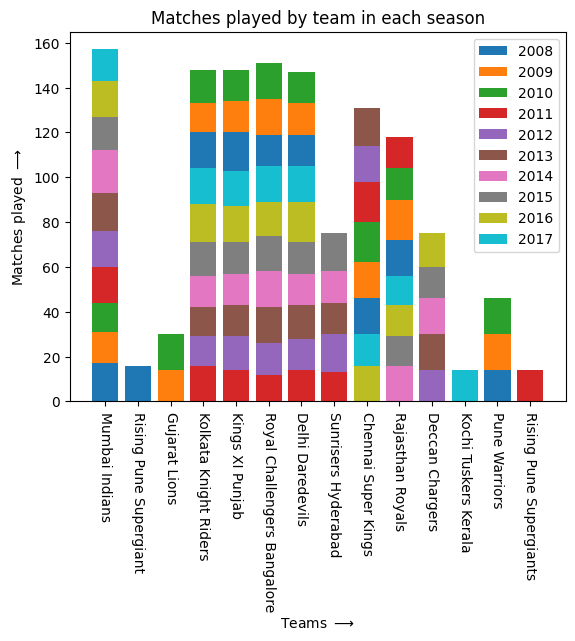
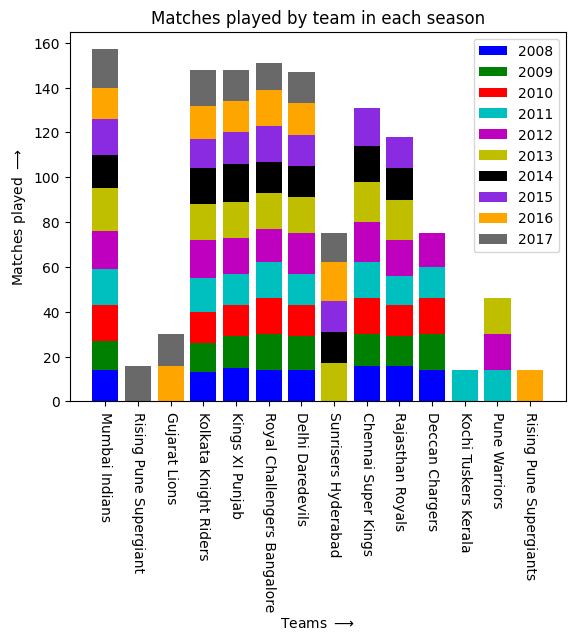
commiting after completing the project

Changed region(s): [[0.1478, 0.0624, 0.7983, 0.624], [0.8278, 0.0624, 0.887, 0.4056], [0.8278, 0.468, 0.9461, 0.624]]

diff --git a/Programs/Questions/question_6.py b/Programs/Questions/question_6.py
@@ -10,27 +10,21 @@ from data import extracting_matches_data
 matches_data_list=extracting_matches_data()
 
 # Doing calculation to get the spicific data as per reuirements
-matches_data_dict={}
+winner_team_dict={}
 i=1
 while i<len(matches_data_list):
     
-    if matches_data_list[i]["team1"] in matches_data_dict:
-        if matches_data_list[i]["season"] in matches_data_dict[matches_data_list[i]["team1"]]:
-            matches_data_dict[matches_data_list[i]["team1"]][matches_data_list[i]["season"]]+=1
+    if matches_data_list[i]["result"] == "normal":
+        if matches_data_list[i]["winner"] in winner_team_dict:
+            if matches_data_list[i]["season"] in winner_team_dict[matches_data_list[i]["winner"]]:
+                winner_team_dict[matches_data_list[i]["winner"]][matches_data_list[i]["season"]]+=1
+            else:
+                winner_team_dict[matches_data_list[i]["winner"]][matches_data_list[i]["season"]]=1
         else:
-            matches_data_dict[matches_data_list[i]["team1"]][matches_data_list[i]["season"]]=1
-    else:
-        matches_data_dict[matches_data_list[i]["team1"]]={}
-        matches_data_dict[matches_data_list[i]["team1"]][matches_data_list[i]["season"]]=1
+            winner_team_dict[matches_data_list[i]["winner"]]={}
+            winner_team_dict[matches_data_list[i]["winner"]][matches_data_list[i]["season"]]=1
 
-    if matches_data_list[i]["team2"] in matches_data_dict:
-        if matches_data_list[i]["season"] in matches_data_dict[matches_data_list[i]["team2"]]:
-            matches_data_dict[matches_data_list[i]["team2"]][matches_data_list[i]["season"]]+=1
-        else:
-            matches_data_dict[matches_data_list[i]["team2"]][matches_data_list[i]["season"]]=1
-    else:
-        matches_data_dict[matches_data_list[i]["team2"]]={}
-        matches_data_dict[matches_data_list[i]["team2"]][matches_data_list[i]["season"]]=1
+   
     i+=1
 
 
@@ -50,7 +44,6 @@ color_dict = {
 
 
 
-
 # labeling the legends
 color_dict_keys=list(color_dict.keys())
 color_dict_values=list(color_dict.values())
@@ -60,7 +53,7 @@ while i<len(color_dict_values):
     i+=1
 
 # Plotting the bar graph
-for team_name,team_data in matches_data_dict.items():
+for winner_team_name,team_data in winner_team_dict.items():
     bottom=0
     team_data_keys=list(team_data.keys())
     team_data_keys.sort()
@@ -69,17 +62,17 @@ for team_name,team_data in matches_data_dict.items():
     matches_played=list(sorted_team_data_dict.values())
     i=0
     while i < len(season):
-        plt.bar(team_name,matches_played[i],bottom=bottom,label=season[i],color=color_dict[season[i]])
+        plt.bar(winner_team_name,matches_played[i],bottom=bottom,label=season[i],color=color_dict[season[i]])
         bottom+=matches_played[i]
         i+=1
 
 
 plt.legend(color_dict.keys())
-plt.title("Matches played by team in each season")
+plt.title("Games won by team in each season")
 plt.xlabel(r"Teams $\longrightarrow$")
 plt.ylabel(r"Matches played $\longrightarrow$")
 plt.xticks(rotation=270)
-plt.savefig("../figures/question_4_fig.png",bbox_inches='tight')  #Saving the image in different location
+plt.savefig("../figures/question_6_fig.png",bbox_inches='tight')  #Saving the image in different location
 plt.show()
 
 

diff --git a/Programs/Questions/question_8.py b/Programs/Questions/question_8.py
@@ -1,0 +1,64 @@
+import sys
+import matplotlib.pyplot as plt
+
+# Adding the path so that it can find the desired file in the given path also
+sys.path.append("/home/divesh/Desktop/Python/Projects/IPL-project/Programs")
+from data import extracting_matches_data,extracting_deliveries_data
+
+# Calling function from different file to get the data
+matches_data_list=extracting_matches_data()
+deliveries_data_list=extracting_deliveries_data()
+# Doing calculation to get the spicific data as per reuirements
+match_id_list=[]
+j=1 
+while j<len(matches_data_list):
+	if matches_data_list[j]["season"]=='2015':
+		match_id_list.append(matches_data_list[j]["id"])
+	j+=1
+
+
+economy_data_dict={}
+i=1
+while i<len(deliveries_data_list):
+   
+	if deliveries_data_list[i]["match_id"] in match_id_list:
+		if deliveries_data_list[i]["bowler"] in economy_data_dict:
+			economy_data_dict[deliveries_data_list[i]["bowler"]][0]+=int(deliveries_data_list[i]["total_runs"])
+			economy_data_dict[deliveries_data_list[i]["bowler"]][1]+=1
+			economy_data_dict[deliveries_data_list[i]["bowler"]][2]=economy_data_dict[deliveries_data_list[i]["bowler"]][1]//6
+			if economy_data_dict[deliveries_data_list[i]["bowler"]][2]!=0:
+				economy_data_dict[deliveries_data_list[i]["bowler"]][3]=round(economy_data_dict[deliveries_data_list[i]["bowler"]][0]/economy_data_dict[deliveries_data_list[i]["bowler"]][2],1)
+			else:
+				economy_data_dict[deliveries_data_list[i]["bowler"]][3]=0.0
+		
+		else:
+			   economy_data_dict[deliveries_data_list[i]["bowler"]]=[int(deliveries_data_list[i]["total_runs"]),1,0,0]
+				
+		
+	i+=1
+
+
+sorted_economy_data_dict=dict(sorted(economy_data_dict.items(), key=lambda item: item[1][3]))
+bowlers_list=list(sorted_economy_data_dict.keys())[:10]
+economy_list=[]
+i=0
+for bowler,bowling_data in sorted_economy_data_dict.items():
+	economy_list.append(bowling_data[3])
+	i+=1
+	if(i==10):
+		break
+
+colors = ['b', 'g', 'r', 'c', 'm', 'y', 'k', 'tab:blue', 'tab:orange', 'tab:green']
+
+
+
+# Plotting the chart
+plt.figure(figsize=(15, 15))  # Set the figure size to 10x6 inches    
+plt.bar(bowlers_list,economy_list,label=bowlers_list,color=colors)    
+plt.xticks(rotation=270,fontsize=10)           #Rotated the names on x-axis
+plt.legend(bbox_to_anchor =(1, 1.15), ncol = 3)
+plt.xlabel(r'Bowlers $\longrightarrow$')
+plt.ylabel(r"Economy $\longrightarrow$")
+plt.title("Top 10 Bowler in year 2015")
+plt.savefig("../figures/question_8_fig.png",bbox_inches='tight')    #Saving the figure in the given paths
+plt.show()

diff --git a/Programs/Questions/question_7.py b/Programs/Questions/question_7.py
@@ -1,0 +1,44 @@
+import sys
+import matplotlib.pyplot as plt
+
+# Adding the path so that it can find the desired file in the given path also
+sys.path.append("/home/divesh/Desktop/Python/Projects/IPL-project/Programs")
+from data import extracting_matches_data,extracting_deliveries_data
+
+# Calling function from different file to get the data
+matches_data_list=extracting_matches_data()
+deliveries_data_list=extracting_deliveries_data()
+# Doing calculation to get the spicific data as per reuirements
+match_id_list=[]
+j=1 
+while j<len(matches_data_list):
+	if matches_data_list[j]["season"]=='2016':
+		match_id_list.append(matches_data_list[j]["id"])
+	j+=1
+
+extra_runs_data_dict={}
+i=1
+while i<len(deliveries_data_list):
+
+	if deliveries_data_list[i]["match_id"] in match_id_list:
+		if deliveries_data_list[i]["batting_team"] in extra_runs_data_dict:
+			extra_runs_data_dict[deliveries_data_list[i]["batting_team"]]+=int(deliveries_data_list[i]["extra_runs"])
+		else:
+			extra_runs_data_dict[deliveries_data_list[i]["batting_team"]]=int(deliveries_data_list[i]["extra_runs"])
+		
+	i+=1
+
+colors = ['b', 'g', 'r', 'c', 'm', 'y', 'k', 'tab:blue']
+extra_runs_team_list=list(extra_runs_data_dict.keys())
+extra_runs_list=list(extra_runs_data_dict.values())
+
+# Plotting the chart
+plt.figure(figsize=(15, 15))  # Set the figure size to 10x6 inches    
+plt.bar(extra_runs_team_list,extra_runs_list,label=extra_runs_team_list,color=colors)    
+plt.xticks(rotation=270,fontsize=10)           #Rotated the names on x-axis
+plt.legend(bbox_to_anchor =(1, 1.15), ncol = 3)
+plt.xlabel(r'Teams $\longrightarrow$')
+plt.ylabel(r"Runs $\longrightarrow$")
+plt.title("Extra runs given by team in year 2016")
+plt.savefig("../figures/question_7_fig.png",bbox_inches='tight')    #Saving the figure in the given paths
+plt.show()

diff --git a/Programs/Questions/question_5.py b/Programs/Questions/question_5.py
@@ -1,5 +1,4 @@
 import sys
-from array import array
 import matplotlib.pyplot as plt
 
 # Adding the path so that it can find the desired file in the given path also
@@ -22,7 +21,7 @@ while i<len(matches_data_list):
        i+=1
 
 
-# Plotting the graph
+
 color_dict = {
     "2008": "Crimson",
     "2009": "Aquamarine",
@@ -38,12 +37,14 @@ color_dict = {
 
 seasons=list(dict(sorted(matches_data_dict.items())).keys())
 number_of_matches=list(dict(sorted(matches_data_dict.items())).values())
+
+# Plotting the graph
 plt.figure(figsize=(10,8))
 plt.bar(seasons,number_of_matches,color=color_dict.values(),label=seasons)
 plt.legend(ncol=3)
 plt.title("Matches played by team in each season")
 plt.xlabel(r"seasons $\longrightarrow$")
 plt.ylabel(r"Matches played $\longrightarrow$")
-plt.xticks(rotation=270)
+# plt.xticks(rotation=270)
 plt.savefig("../figures/question_5_fig.png",bbox_inches='tight')  #Saving the image in different location
 plt.show()

diff --git a/Programs/Questions/question_3.py b/Programs/Questions/question_3.py
@@ -1,6 +1,7 @@
 import matplotlib.pyplot as plt
 import sys
-from array import array
+
+# Adding the path so that it can find the desired file in the given path also
 sys.path.append("/home/divesh/Desktop/Python/Projects/IPL-project/Programs")
 from data import extracting_umpires_data 
 

diff --git a/Programs/Questions/question_2.py b/Programs/Questions/question_2.py
@@ -1,5 +1,4 @@
 import sys
-from array import array
 import matplotlib.pyplot as plt
 
 # Adding the path so that it can find the desired file in the given path also

diff --git a/README.md b/README.md
@@ -1,0 +1,12 @@
+# Readme file
+
+## How to run
++ Pull the project from github to your local repo
++ Open the project and start it's virtual environment
++ Then navigate to Programs/Questions you will find seperate program for separate question there.
++ After that open a program and type python <file_name> in your terminal.
+
+
+## NOTE:
+In the end of each program you will find two lines of code that is plt.savefig() and plt.show(), if you want to save the fig in a different
+location then just change the address in the plt.savefig()
